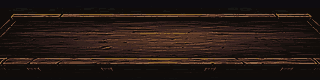
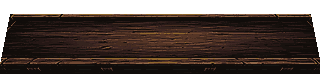
fix: cut Tavern tabletop art with alpha mask

Changed region(s): [[0.0, 0.0, 1.0, 0.725], [0.0, 0.925, 1.0, 1.0]]

diff --git a/scripts/tools/export_tavern_table_assets.py b/scripts/tools/export_tavern_table_assets.py
@@ -19,11 +19,26 @@ SPRITE_POSITION_RUNTIME = (640, 560)
 SURFACE_TOP_Y_RUNTIME = 455
 FRONT_LIP_Y_RUNTIME = 655
 GROUND_Y_RUNTIME = 655
+CUTOUT_POLYGON_NATIVE = [(10, 14), (310, 14), (320, 64), (320, 73), (0, 73), (0, 64)]
 
 
 def quantize_image(image: Image.Image, colors: int = 18) -> Image.Image:
     rgb = image.convert("RGB")
     return rgb.quantize(colors=colors, method=Image.Quantize.MEDIANCUT).convert("RGBA")
+
+
+def apply_cutout_mask(image: Image.Image) -> Image.Image:
+    mask = Image.new("L", image.size, 0)
+    draw = ImageDraw.Draw(mask)
+    draw.polygon(CUTOUT_POLYGON_NATIVE, fill=255)
+    cutout = image.convert("RGBA")
+    cutout.putalpha(mask)
+    pixels = cutout.load()
+    for y in range(cutout.height):
+        for x in range(cutout.width):
+            if pixels[x, y][3] == 0:
+                pixels[x, y] = (0, 0, 0, 0)
+    return cutout
 
 
 def normalize_work_surface(source: Image.Image) -> Image.Image:
@@ -58,7 +73,7 @@ def normalize_work_surface(source: Image.Image) -> Image.Image:
                 g = max(g, 42)
                 b = min(b, 44)
             pixels[x, y] = (r, g, b, 255)
-    return native
+    return apply_cutout_mask(native)
 
 
 def save_manifest() -> None:
@@ -71,6 +86,7 @@ def save_manifest() -> None:
         "runtime_size": list(RUNTIME_SIZE),
         "scale": SCALE,
         "safe_area": [0, 0, 320, 80],
+        "cutout_polygon_native": [list(point) for point in CUTOUT_POLYGON_NATIVE],
         "physics_alignment": {
             "sprite_position_runtime": list(SPRITE_POSITION_RUNTIME),
             "surface_top_y_runtime": SURFACE_TOP_Y_RUNTIME,

diff --git a/scripts/test/test_tavern_table_asset_pipeline.py b/scripts/test/test_tavern_table_asset_pipeline.py
@@ -16,6 +16,7 @@ SPRITE_POSITION_RUNTIME = (640, 560)
 SURFACE_TOP_Y_RUNTIME = 455
 FRONT_LIP_Y_RUNTIME = 655
 GROUND_Y_RUNTIME = 655
+CUTOUT_POLYGON_NATIVE = [[10, 14], [310, 14], [320, 64], [320, 73], [0, 73], [0, 64]]
 
 
 def load_rgba(path: Path) -> Image.Image:
@@ -50,6 +51,7 @@ class TavernTableAssetPipelineTest(unittest.TestCase):
         self.assertEqual(manifest["runtime_size"], list(RUNTIME_SIZE))
         self.assertEqual(manifest["scale"], 4)
         self.assertEqual(manifest["safe_area"], [0, 0, 320, 80])
+        self.assertEqual(manifest["cutout_polygon_native"], CUTOUT_POLYGON_NATIVE)
         self.assertEqual(
             manifest["physics_alignment"],
             {
@@ -83,12 +85,20 @@ class TavernTableAssetPipelineTest(unittest.TestCase):
         expected = native.resize(RUNTIME_SIZE, Image.Resampling.NEAREST)
         self.assertEqual(runtime.tobytes(), expected.tobytes(), "runtime must be exact 4x nearest export")
 
-    def test_native_work_surface_is_opaque_and_visually_restrained(self) -> None:
+    def test_native_work_surface_is_cleanly_cut_out_and_visually_restrained(self) -> None:
         manifest = load_manifest(self)
         native = load_rgba(ROOT / manifest["native"])
         alpha_min, alpha_max = native.getchannel("A").getextrema()
-        self.assertEqual((alpha_min, alpha_max), (255, 255), "work surface is a rectangular opaque art layer")
+        self.assertEqual((alpha_min, alpha_max), (0, 255), "work surface should be a transparent cutout, not an opaque rectangle")
         pixels = image_pixels(native)
+        transparent = sum(1 for _r, _g, _b, a in pixels if a == 0)
+        opaque = sum(1 for _r, _g, _b, a in pixels if a == 255)
+        self.assertGreaterEqual(transparent, 4200, "work surface still has too much uncut dark background")
+        self.assertGreaterEqual(opaque, 18000, "cutout removed too much of the playable table surface")
+        for x, y in ((0, 0), (319, 0), (0, 79), (319, 79), (160, 0), (160, 79)):
+            self.assertEqual(native.getpixel((x, y))[3], 0, "outer padding should be transparent at %s" % ((x, y),))
+        for x, y in ((20, 14), (160, 24), (300, 14), (24, 64), (160, 64), (296, 64)):
+            self.assertEqual(native.getpixel((x, y))[3], 255, "table body should remain opaque at %s" % ((x, y),))
         dark_wood = sum(1 for r, g, b, a in pixels if a == 255 and 20 <= r <= 120 and 12 <= g <= 82 and 8 <= b <= 70)
         teal_shadow = sum(1 for r, g, b, a in pixels if a == 255 and b >= 18 and g >= 14 and b >= r * 0.45)
         amber = sum(1 for r, g, b, a in pixels if a == 255 and r >= 88 and g >= 40 and b <= 46 and r >= b * 1.8)